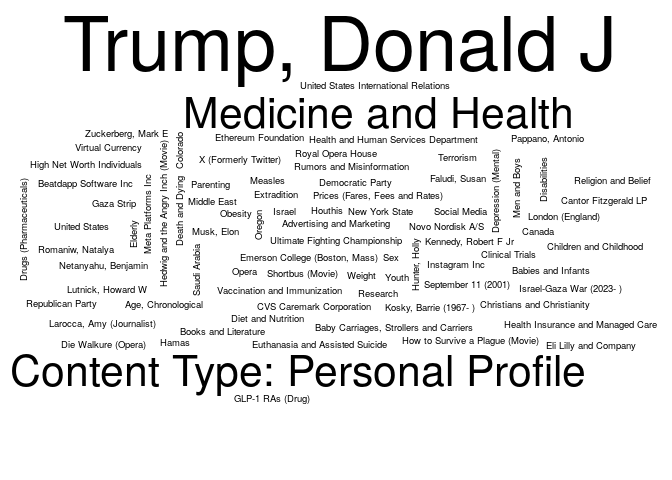
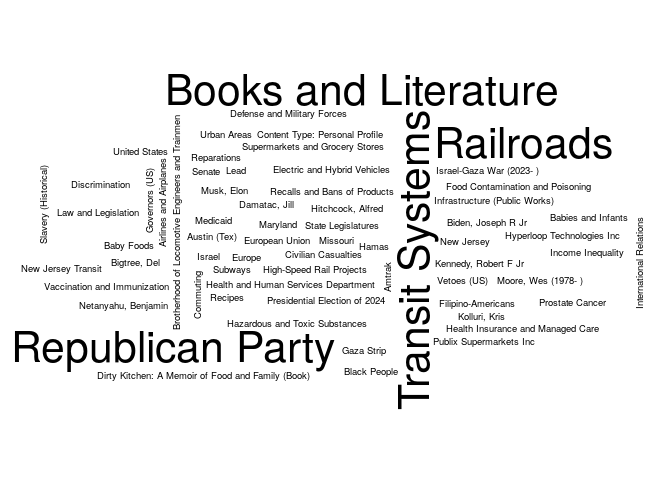
Updating the NYT report

Changed region(s): [[0.0, 0.0312, 0.9688, 0.8438]]

diff --git a/03-nytimes/README.md b/03-nytimes/README.md
@@ -5,7 +5,7 @@ The following is an example of how to use the [NYTimes
 API](https://developer.nytimes.com/) to get a list of articles related
 to a particular term. Here we are searching articles that include the
 term `"health"`, and that were published up to seven days ago since
-2025-05-12.
+2025-05-19.
 
 ``` r
 # Preparing a function to use the GET method with the NYTimes API
@@ -83,25 +83,25 @@ colnames(tab) <- c("Keyword", "# Articles")
 knitr::kable(tab, row.names = FALSE)
 ```
 
-| Keyword                                | \# Articles |
-|:---------------------------------------|------------:|
-| Trump, Donald J                        |          15 |
-| Content Type: Personal Profile         |          10 |
-| Medicine and Health                    |          10 |
-| United States Politics and Government  |          10 |
-| Advertising and Marketing              |           5 |
-| Age, Chronological                     |           5 |
-| Babies and Infants                     |           5 |
-| Baby Carriages, Strollers and Carriers |           5 |
-| Beatdapp Software Inc                  |           5 |
-| Books and Literature                   |           5 |
-| Canada                                 |           5 |
-| Cantor Fitzgerald LP                   |           5 |
-| Children and Childhood                 |           5 |
-| Christians and Christianity            |           5 |
-| Clinical Trials                        |           5 |
-| Colorado                               |           5 |
-| CVS Caremark Corporation               |           5 |
-| Death and Dying                        |           5 |
-| Democratic Party                       |           5 |
-| Depression (Mental)                    |           5 |
+| Keyword                                           | \# Articles |
+|:--------------------------------------------------|------------:|
+| United States Politics and Government             |          18 |
+| Books and Literature                              |          12 |
+| Railroads                                         |          12 |
+| Republican Party                                  |          12 |
+| Transit Systems                                   |          12 |
+| Airlines and Airplanes                            |           6 |
+| Amtrak                                            |           6 |
+| Austin (Tex)                                      |           6 |
+| Babies and Infants                                |           6 |
+| Baby Foods                                        |           6 |
+| Biden, Joseph R Jr                                |           6 |
+| Bigtree, Del                                      |           6 |
+| Black People                                      |           6 |
+| Brotherhood of Locomotive Engineers and Trainmen  |           6 |
+| Civilian Casualties                               |           6 |
+| Commuting                                         |           6 |
+| Content Type: Personal Profile                    |           6 |
+| Damatac, Jill                                     |           6 |
+| Defense and Military Forces                       |           6 |
+| Dirty Kitchen: A Memoir of Food and Family (Book) |           6 |
